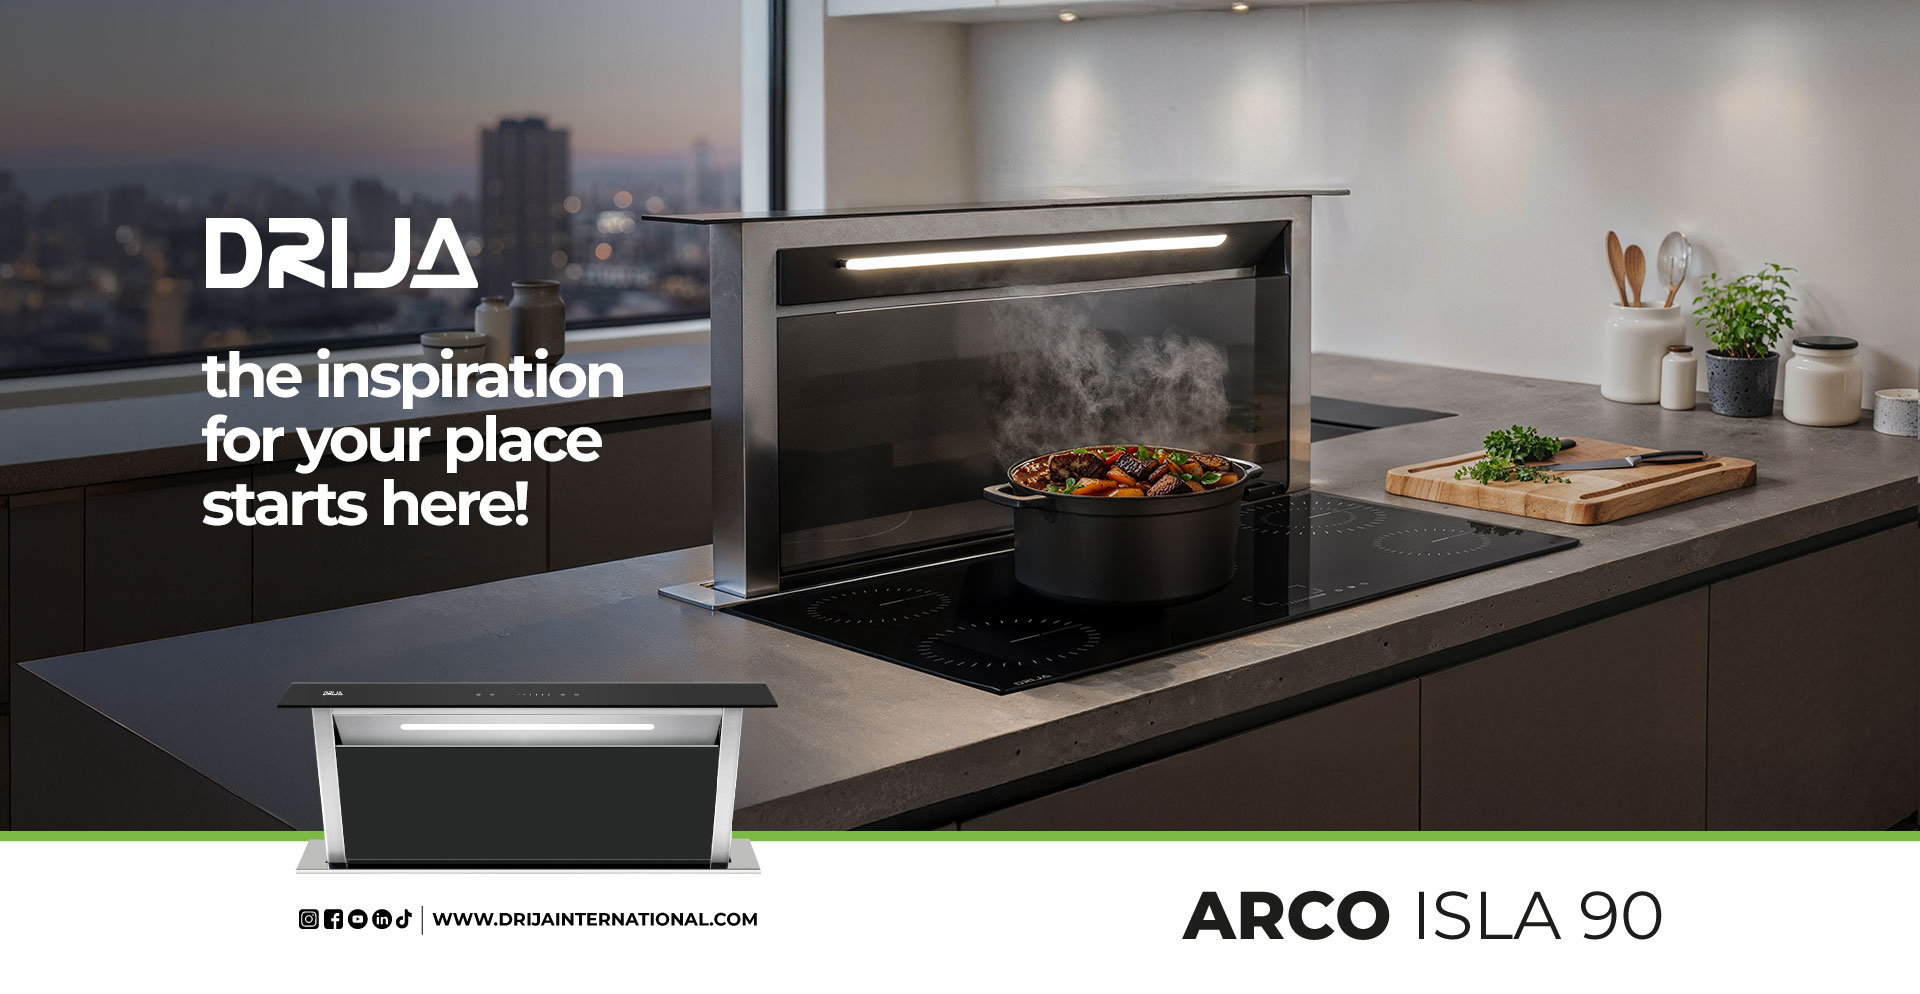
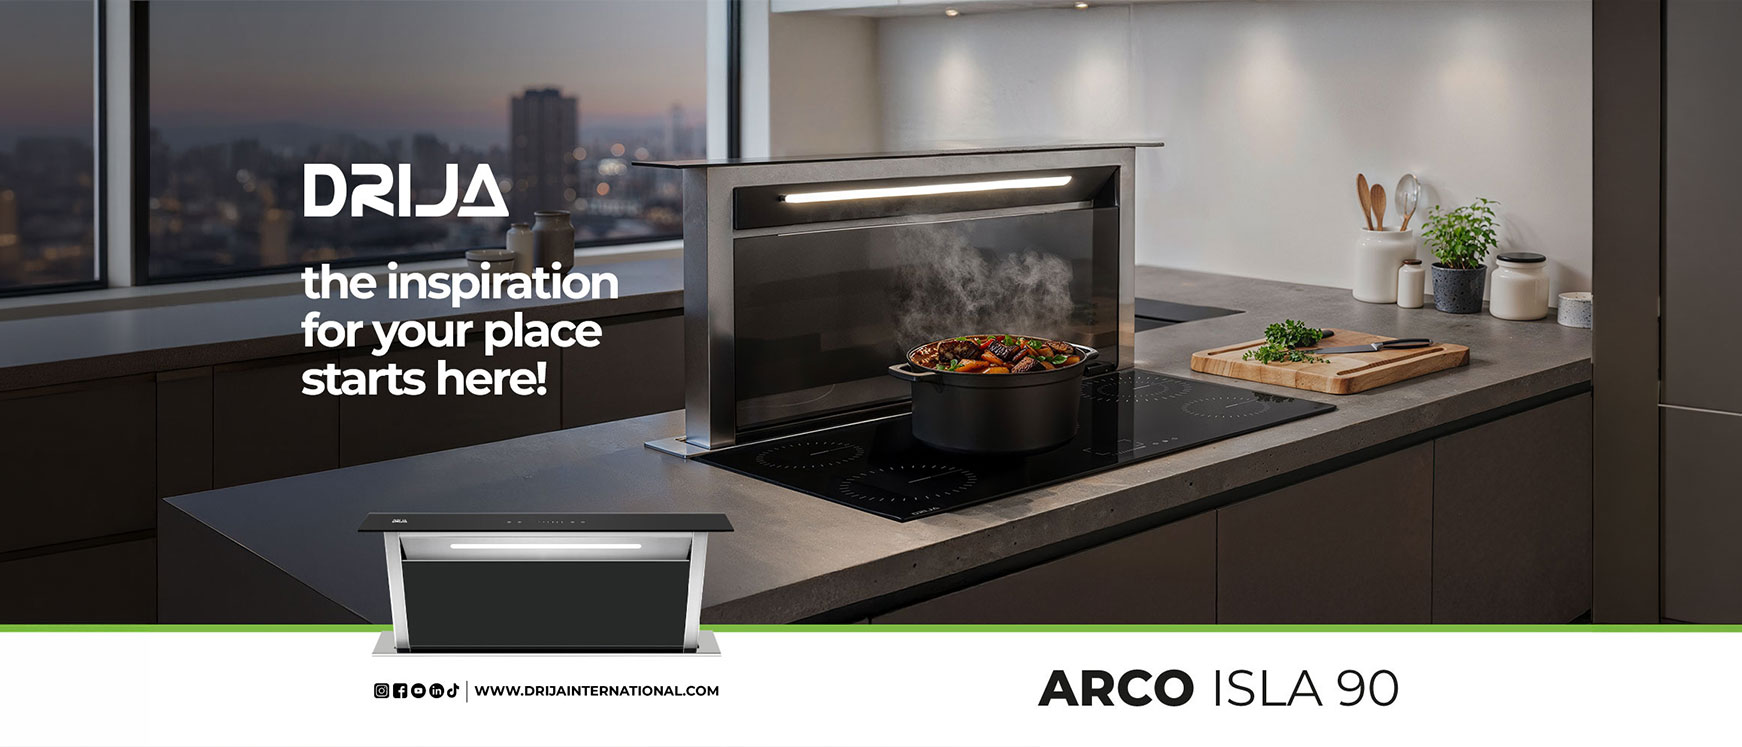
se agregó seccion de featured

diff --git a/components/navigation/Navigation.module.css b/components/navigation/Navigation.module.css
@@ -35,10 +35,9 @@
   display: inline-block;
   padding: 10px 20px;
   font-size: 0.875rem;
-  font-weight: 300;
+  font-weight: 500;
   letter-spacing: 0.025em;
   color: #fff !important;
-  background-color: #000;
   border-radius: 26px;
   transition:
     color 0.2s ease,